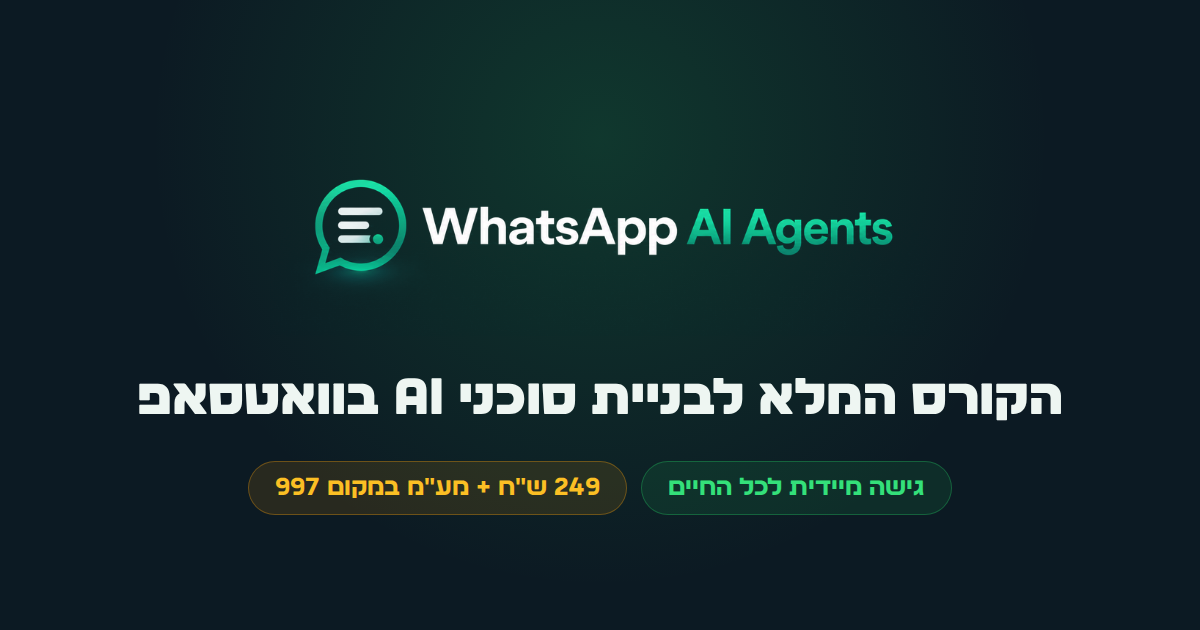
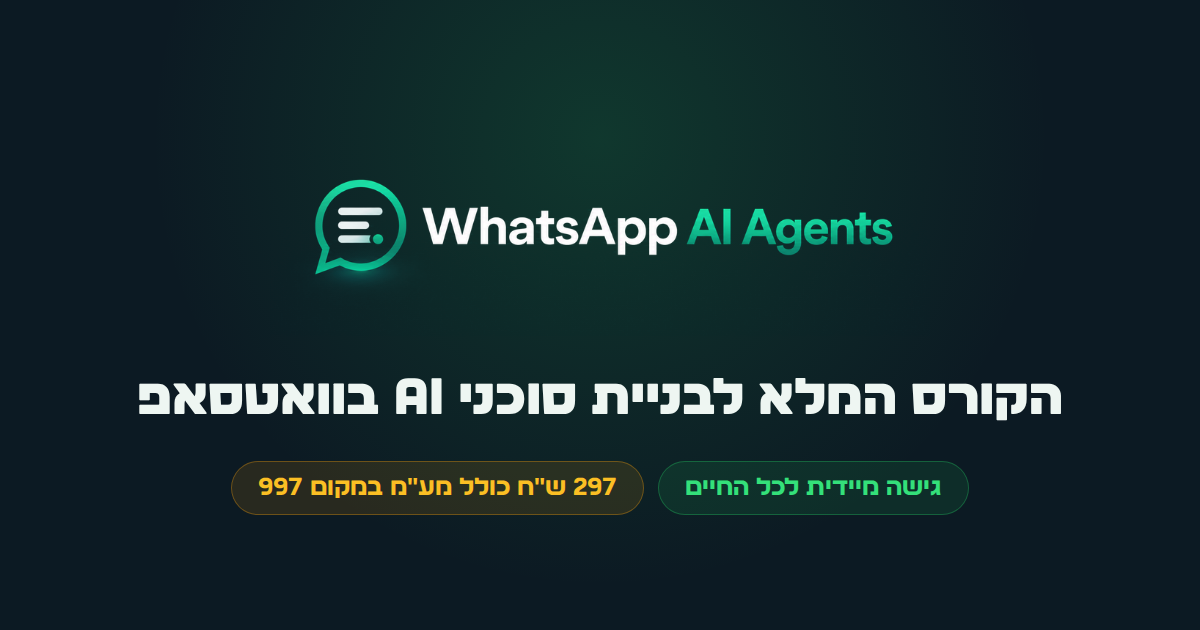
Price the course at 297 including VAT
The old figure needed two numbers to say one thing — 249 plus VAT, then
293.82 in the small print. One number that already includes VAT reads
cleaner and removes the asterisk from every button and badge.

Changed everywhere the amount appears, not only where it is shown: the
price card, the sticky bar, the share preview, the terms clause on both
the modal and /takanon, the order line on the thank-you page, the Meta
event values on both pages, and COURSE_PRICE on the server, which is what
the Conversions API reports when Grow does not send a sum.

The launch-price FAQ claimed a quarter of the full price. It was 29.5%
before this change and is 29.8% after, so it now says under a third.

og-image.png and the what's-included card carried the price as pixels;
both regenerated.

docs/emails.md and docs/welcome-email.md are deleted. They held the
earlier essay-voice drafts at the old price, and a second copy of the
same emails that contradicts the live one is a paste waiting to go wrong.

Claude-Session: https://claude.ai/code/session_01FFg46XWJKAUPaVi2auzerL

Changed region(s): [[0.185, 0.7238, 0.8017, 0.8143]]

diff --git a/index.html b/index.html
@@ -11,7 +11,7 @@
     <!-- OG / שיתוף -->
     <meta property="og:site_name" content="WhatsApp AI Agents">
     <meta property="og:title" content="הקורס המלא לבניית סוכני AI בוואטסאפ">
-    <meta property="og:description" content="סוכן שעונה ללקוחות שלך 24/7 בוואטסאפ ובאינסטגרם, בשלושה שקלים ליום. 249 ש״ח + מע״מ במקום 997.">
+    <meta property="og:description" content="סוכן שעונה ללקוחות שלך 24/7 בוואטסאפ ובאינסטגרם, בשלושה שקלים ליום. 297 ש״ח כולל מע״מ במקום 997.">
     <meta property="og:type" content="website">
     <meta property="og:url" content="https://ron-amit-claude.vercel.app/">
     <meta property="og:image" content="https://ron-amit-claude.vercel.app/og-image.png">
@@ -1568,7 +1568,7 @@
         <div class="reveal stagger-1">
             <div class="hero-badge">
                 <span class="pulse-dot"></span>
-                מחיר השקה, 249 ש״ח + מע״מ במקום 997
+                מחיר השקה, 297 ש״ח כולל מע״מ במקום 997
             </div>
         </div>
 
@@ -1600,7 +1600,7 @@
 
         <div class="cta-wrap reveal stagger-5">
             <a href="#register" class="cta-btn">אני רוצה את הסוכן שלי</a>
-            <div class="cta-sub"><svg class="ico ico-sm" aria-hidden="true"><use href="#i-lock"/></svg> תשלום מאובטח, 249 ש״ח + מע״מ, תשלום אחד</div>
+            <div class="cta-sub"><svg class="ico ico-sm" aria-hidden="true"><use href="#i-lock"/></svg> תשלום מאובטח, 297 ש״ח כולל מע״מ, תשלום אחד</div>
         <div class="meta-strip reveal stagger-5">
             <div class="meta-chip">
                 <span class="mc-icon"><svg class="ico" aria-hidden="true"><use href="#i-bolt"/></svg></span>
@@ -1922,7 +1922,7 @@
             <h3 id="sumTitle"></h3>
             <p id="sumText"></p>
             <a class="cta-btn" href="#register" style="font-size:18px;padding:17px 40px">אני רוצה סוכן כזה לעסק שלי</a>
-            <p style="margin:14px 0 0;font-size:13px;color:var(--text-dim)">בקורס בונים בדיוק את זה, מסך מול מסך, צעד אחרי צעד. 249 ש״ח + מע״מ.</p>
+            <p style="margin:14px 0 0;font-size:13px;color:var(--text-dim)">בקורס בונים בדיוק את זה, מסך מול מסך, צעד אחרי צעד. 297 ש״ח כולל מע״מ.</p>
         </div>
         <!-- /SIM -->
 
@@ -2251,9 +2251,9 @@
                     <span class="price-original">997 ש״ח</span>
                 </div>
                 <div class="price-amount">
-                    <span class="pa-number">249</span>
-                    <span class="pa-currency">ש״ח + מע״מ</span>
-                    <span class="pa-vat">תשלום אחד, 293.82 ש״ח כולל מע״מ</span>
+                    <span class="pa-number">297</span>
+                    <span class="pa-currency">ש״ח</span>
+                    <span class="pa-vat">תשלום אחד, כולל מע״מ</span>
                 </div>
                 <div class="price-perday">פחות מיום עבודה אחד של עובד שירות</div>
 
@@ -2289,7 +2289,7 @@
                     </label>
                     <div class="ld-check-err">בלי אישור התקנון אי אפשר להמשיך</div>
                     <button type="submit" class="cta-btn ld-submit" id="liSubmit">ממשיכים לתשלום מאובטח</button>
-                    <div class="cta-sub" style="text-align:center;margin-top:9px"><svg class="ico ico-sm" aria-hidden="true"><use href="#i-lock"/></svg> סליקה מאובטחת, 249 ש״ח + מע״מ, תשלום אחד</div>
+                    <div class="cta-sub" style="text-align:center;margin-top:9px"><svg class="ico ico-sm" aria-hidden="true"><use href="#i-lock"/></svg> סליקה מאובטחת, 297 ש״ח כולל מע״מ, תשלום אחד</div>
                 </form>
 
                 <div class="guarantee-wrap">
@@ -2350,8 +2350,8 @@
             <div class="faq-a"><p>לכל החיים, כולל עדכונים. הכלים בתחום הזה זזים מהר, וכשמשהו משתנה מהותית עמית מקליט את זה מחדש ואתה מקבל את זה בלי לשלם שוב.</p></div>
         </div>
         <div class="faq-item reveal stagger-5">
-            <div class="faq-q" onclick="toggleFaq(this)"><span>למה 249 ולא 997?</span><span class="faq-arrow"><svg class="ico" aria-hidden="true"><use href="#i-chevron"/></svg></span></div>
-            <div class="faq-a"><p>זו קבוצת ההשקה. אנחנו רוצים מספר מספיק גדול של אנשים שיבנו סוכן ויספרו לנו איפה נתקעו, כדי שהגרסה הבאה תהיה טובה יותר. בתמורה אתה משלם רבע מהמחיר. כשמחיר ההשקה נסגר, הוא נסגר.</p></div>
+            <div class="faq-q" onclick="toggleFaq(this)"><span>למה 297 ולא 997?</span><span class="faq-arrow"><svg class="ico" aria-hidden="true"><use href="#i-chevron"/></svg></span></div>
+            <div class="faq-a"><p>זו קבוצת ההשקה. אנחנו רוצים מספר מספיק גדול של אנשים שיבנו סוכן ויספרו לנו איפה נתקעו, כדי שהגרסה הבאה תהיה טובה יותר. בתמורה אתה משלם פחות משליש מהמחיר. כשמחיר ההשקה נסגר, הוא נסגר.</p></div>
         </div>
     </div>
 </section>
@@ -2366,14 +2366,14 @@
         </p>
         <div class="reveal stagger-2">
             <a href="#register" class="cta-btn">אני רוצה את הסוכן שלי</a>
-            <div class="cta-sub">249 ש״ח + מע״מ, תשלום אחד, גישה מיידית לכל החיים</div>
+            <div class="cta-sub">297 ש״ח כולל מע״מ, תשלום אחד, גישה מיידית לכל החיים</div>
         </div>
     </div>
 </section>
 
 <!-- STICKY CTA MOBILE -->
 <div class="sticky-cta" id="stickyCta">
-    <a href="#register" class="cta-btn">קח את הסוכן | 249 ש״ח + מע״מ</a>
+    <a href="#register" class="cta-btn">קח את הסוכן | 297 ש״ח</a>
 </div>
 
 
@@ -2391,7 +2391,7 @@
         </p>
         <div class="faq-callout" style="text-align:right;margin:0 0 16px">
             <div class="fc-row"><span>עובד שירות לקוחות</span><b class="fc-bad">7,040 ₪ בחודש, כל חודש</b></div>
-            <div class="fc-row"><span>הקורס, תשלום אחד</span><b>249 ₪ + מע״מ</b></div>
+            <div class="fc-row"><span>הקורס, תשלום אחד</span><b>297 ₪ כולל מע״מ</b></div>
             <div class="fc-row fc-win"><span>הפעלת הסוכן, 24/7</span><b>3 ₪ ביום</b></div>
         </div>
         <p style="font-size:15px;margin-bottom:20px">
@@ -2417,7 +2417,7 @@
             <h4>2. המוצר</h4>
             <p>הקורס הוא תוכן דיגיטלי מוקלט, לצפייה אישית, המלמד בניית סוכן שירות אוטומטי בוואטסאפ ובאינסטגרם. הקורס אינו כולל את עלות הכלים החיצוניים (ספקי AI, חיבור וואטסאפ וכדומה), המשולמת ישירות לצדדים שלישיים לפי השימוש, בסדר גודל של כ-90 ש״ח בחודש, משתנה לפי היקף השימוש. אין בקורס התחייבות לתוצאה עסקית כלשהי, והתוצאות תלויות ביישום.</p>
             <h4>3. מחיר ותשלום</h4>
-            <p>מחיר ההשקה: 249 ש״ח בתוספת מע״מ (293.82 ש״ח כולל מע״מ בשיעור 18%), בתשלום אחד. הסליקה מתבצעת באמצעות ספק סליקה חיצוני מאובטח; פרטי כרטיס האשראי אינם נשמרים אצל המפעיל. חשבונית מס/קבלה תישלח לכתובת המייל שנמסרה ברכישה.</p>
+            <p>מחיר ההשקה: 297 ש״ח כולל מע״מ (251.69 ש״ח לפני מע״מ בשיעור 18%), בתשלום אחד. הסליקה מתבצעת באמצעות ספק סליקה חיצוני מאובטח; פרטי כרטיס האשראי אינם נשמרים אצל המפעיל. חשבונית מס/קבלה תישלח לכתובת המייל שנמסרה ברכישה.</p>
             <h4>4. אספקה וגישה</h4>
             <p>הגישה לקורס נפתחת לאחר אישור התשלום, ומייל עם פרטי הכניסה נשלח בסמוך לרכישה (מומלץ לבדוק גם בתיקיית הספאם). הגישה אישית ואינה ניתנת להעברה, והיא כוללת עדכונים עתידיים לתכני הקורס. בכל תקלת גישה ניתן לפנות אלינו ונטפל בתוך יום עסקים.</p>
             <h4>5. ביטול עסקה והחזר כספי</h4>
@@ -2472,7 +2472,7 @@
                 </label>
                 <div class="ld-check-err">בלי אישור התקנון אי אפשר להמשיך לתשלום</div>
                 <button type="submit" class="cta-btn ld-submit" id="ldSubmit">ממשיכים לתשלום מאובטח</button>
-                <div class="cta-sub" style="text-align:center;margin-top:10px"><svg class="ico ico-sm" aria-hidden="true"><use href="#i-lock"/></svg> 249 ש״ח + מע״מ, תשלום אחד, סליקה מאובטחת</div>
+                <div class="cta-sub" style="text-align:center;margin-top:10px"><svg class="ico ico-sm" aria-hidden="true"><use href="#i-lock"/></svg> 297 ש״ח כולל מע״מ, תשלום אחד, סליקה מאובטחת</div>
             </form>
         </div>
     </div>
@@ -2693,7 +2693,7 @@ var RBS_LEAD = (function () {
         fbq('track', 'InitiateCheckout', {
             content_name: 'סוכני AI בוואטסאפ - קורס דיגיטלי',
             content_ids: ['ai-agents-course'], content_type: 'product',
-            currency: 'ILS', value: 293.82
+            currency: 'ILS', value: 297
         });
     }
 
@@ -2746,7 +2746,7 @@ var RBS_LEAD = (function () {
             fbq('track', 'Lead', {
                 content_name: 'סוכני AI בוואטסאפ - קורס דיגיטלי',
                 content_ids: ['ai-agents-course'], content_type: 'product',
-                currency: 'ILS', value: 293.82
+                currency: 'ILS', value: 297
             }, { eventID: eventId });
         }
         if (CONFIG.LEAD_WEBHOOK_URL) {

diff --git a/docs/emails.html b/docs/emails.html
@@ -273,12 +273,12 @@ ul.plain li b { color: var(--ink); font-weight: 700; }
 <article class="mail">
     <div class="mail-head">
         <div class="eyebrow">נטישה · יום 1 · המספר</div>
-        <h2>293 שקלים</h2>
+        <h2>297 שקלים</h2>
         <p class="job">המייל לא פותח במכירה אלא במשימה. הקורא עושה חיפוש אחד בוואטסאפ ומגלה את המספר בעצמו, ומספר שגילית לבד קשה יותר להתווכח איתו.</p>
     </div>
     <div class="field">
         <div class="field-label">נושא</div>
-        <div class="field-value" data-copy>293 שקלים</div>
+        <div class="field-value" data-copy>297 שקלים</div>
         <button class="copy">העתקה</button>
     </div>
     <div class="field pre">
@@ -301,7 +301,7 @@ ul.plain li b { color: var(--ink); font-weight: 700; }
             <p class="beat">ולכמה בכלל לא ענית.</p>
             <p>זה לא מבחן.</p>
             <p class="beat">זה פשוט המספר.</p>
-            <p>הקורס עולה 293 שקלים.</p>
+            <p>הקורס עולה 297 שקלים.</p>
             <p>זו בערך חולצה בזארה,</p>
             <p class="beat">כזאת שתלבש עשר פעמים ותשכח ממנה.</p>
             <p>עובד שירות עולה 7,040 בחודש.</p>
@@ -317,7 +317,7 @@ ul.plain li b { color: var(--ink); font-weight: 700; }
             <p class="beat">אני לא מנסה לגרום לך להרגיש רע.</p>
             <p>אני מנסה שתראה את המספר פעם אחת</p>
             <p class="beat">בגודל האמיתי שלו.</p>
-            <p class="beat">כי 293 שקלים זה לא מה שעוצר אותך.</p>
+            <p class="beat">כי 297 שקלים זה לא מה שעוצר אותך.</p>
             <p>מה שעוצר זה שקל יותר לענות לאותן שתים-עשרה שאלות כל יום</p>
             <p class="beat">מאשר להקדיש ערב אחד ולסדר את זה.</p>
             <p class="btn-line beat">[ אני רוצה את הסוכן שלי ] &lt;&lt;&lt;</p>
@@ -406,7 +406,7 @@ ul.plain li b { color: var(--ink); font-weight: 700; }
         <div class="body-bar"><span>גוף המייל</span><button class="copy">העתקת הגוף</button></div>
         <div class="body" data-copy>
             <p class="beat">זה המייל האחרון שתקבל ממני על הקורס.</p>
-            <p>מחיר ההשקה, 249 בתוספת מע״מ, נסגר ב<span class="ph">{{תאריך}}</span>.</p>
+            <p>מחיר ההשקה, 297 שקלים, נסגר ב<span class="ph">{{תאריך}}</span>.</p>
             <p class="beat">אחריו הוא חוזר ל-997.</p>
             <p class="beat">אני לא כותב את זה כדי ללחוץ.</p>
             <p class="beat">אני כותב את זה כי אני מכיר את הרצף:</p>

diff --git a/thanks.html b/thanks.html
@@ -188,7 +188,7 @@
         <div class="order-line">
             <span>סוכני AI בוואטסאפ, קורס דיגיטלי</span>
             <span>·</span>
-            <b>249 ש״ח + מע״מ</b>
+            <b>297 ש״ח</b>
             <span>·</span>
             <span>גישה לכל החיים</span>
         </div>
@@ -251,7 +251,7 @@ function rbsPurchaseId(lead) {
 /* ── Meta Pixel: אירוע רכישה ── */
 function rbsPixelPurchase() {
     if (typeof fbq !== 'function') return;
-    var PRICE = 293.82;   /* 249 + מע״מ, הסכום שחויב בפועל */
+    var PRICE = 297;   /* מחיר ההשקה, כולל מע״מ */
     var lead = null;
     try { lead = JSON.parse(localStorage.getItem('rbs_lead') || 'null'); } catch (e) {}
     if (lead && lead.email) {
@@ -292,7 +292,7 @@ function rbsReportPurchase() {
         event_id: rbsPurchaseId(lead),
         fbp: rbsCookie('_fbp') || lead.fbp || '',
         fbc: rbsCookie('_fbc') || lead.fbc || '',
-        value: 293.82, currency: 'ILS',
+        value: 297, currency: 'ILS',
         ts: new Date().toISOString(), source: location.href
     };
     Object.keys(attr).forEach(function (k) {

diff --git a/takanon.html b/takanon.html
@@ -254,7 +254,7 @@
 
         <section id="price">
             <h2>מחיר ותשלום</h2>
-            <p>מחיר ההשקה: 249 ש״ח בתוספת מע״מ (293.82 ש״ח כולל מע״מ בשיעור 18%), בתשלום אחד. הסליקה מתבצעת באמצעות ספק סליקה חיצוני מאובטח; פרטי כרטיס האשראי אינם נשמרים אצל המפעיל. חשבונית מס/קבלה תישלח לכתובת המייל שנמסרה ברכישה.</p>
+            <p>מחיר ההשקה: 297 ש״ח כולל מע״מ (251.69 ש״ח לפני מע״מ בשיעור 18%), בתשלום אחד. הסליקה מתבצעת באמצעות ספק סליקה חיצוני מאובטח; פרטי כרטיס האשראי אינם נשמרים אצל המפעיל. חשבונית מס/קבלה תישלח לכתובת המייל שנמסרה ברכישה.</p>
         </section>
 
         <section id="access">

diff --git a/api/_shared.js b/api/_shared.js
@@ -50,7 +50,7 @@ const META_PIXEL_ID = process.env.META_PIXEL_ID || '1410625827632523';
 const META_API = 'https://graph.facebook.com/v21.0/';
 const COURSE_NAME = 'סוכני AI בוואטסאפ - קורס דיגיטלי';
 const COURSE_ID = 'ai-agents-course';
-const COURSE_PRICE = 293.82;   /* 249 + מע״מ, הסכום שמחויב בפועל */
+const COURSE_PRICE = 297;   /* מחיר ההשקה, כולל מע״מ */
 
 function sha256(v) {
     return crypto.createHash('sha256').update(String(v)).digest('hex');

diff --git a/README.md b/README.md
@@ -1,7 +1,7 @@
 # ron-amit-claude
 
 דף נחיתה לקורס הדיגיטלי של עמית ליטמן: בניית סוכן AI לשירות לקוחות בוואטסאפ ובאינסטגרם.
-249 ש״ח + מע״מ במקום 997.
+297 ש״ח כולל מע״מ במקום 997.
 
 הכל נמצא בקובץ אחד: `index.html`. אין תלויות ואין שלב build, פשוט פותחים אותו בדפדפן או מעלים לאירוח.
 
@@ -238,9 +238,9 @@ Birzia-Black.woff2 / .woff     משקל 800-900
 | אירוע | מתי | ערך |
 |---|---|---|
 | `PageView` | טעינת דף | — |
-| `InitiateCheckout` | נגיעה ראשונה בטופס, או פתיחת הפופ-אפ | 293.82 ILS |
-| `Lead` | שליחת טופס תקין, רגע לפני המעבר לתשלום | 293.82 ILS |
-| `Purchase` | דף התודה, פעם אחת לדפדפן | 293.82 ILS |
+| `InitiateCheckout` | נגיעה ראשונה בטופס, או פתיחת הפופ-אפ | 297 ILS |
+| `Lead` | שליחת טופס תקין, רגע לפני המעבר לתשלום | 297 ILS |
+| `Purchase` | דף התודה, פעם אחת לדפדפן | 297 ILS |
 
 `InitiateCheckout` ו-`Purchase` מוגנים כך שלא יורים פעמיים: הראשון בדגל
 בזיכרון הדף, השני ב-`localStorage` (`rbs_purchase_done`), כדי שרענון של דף
